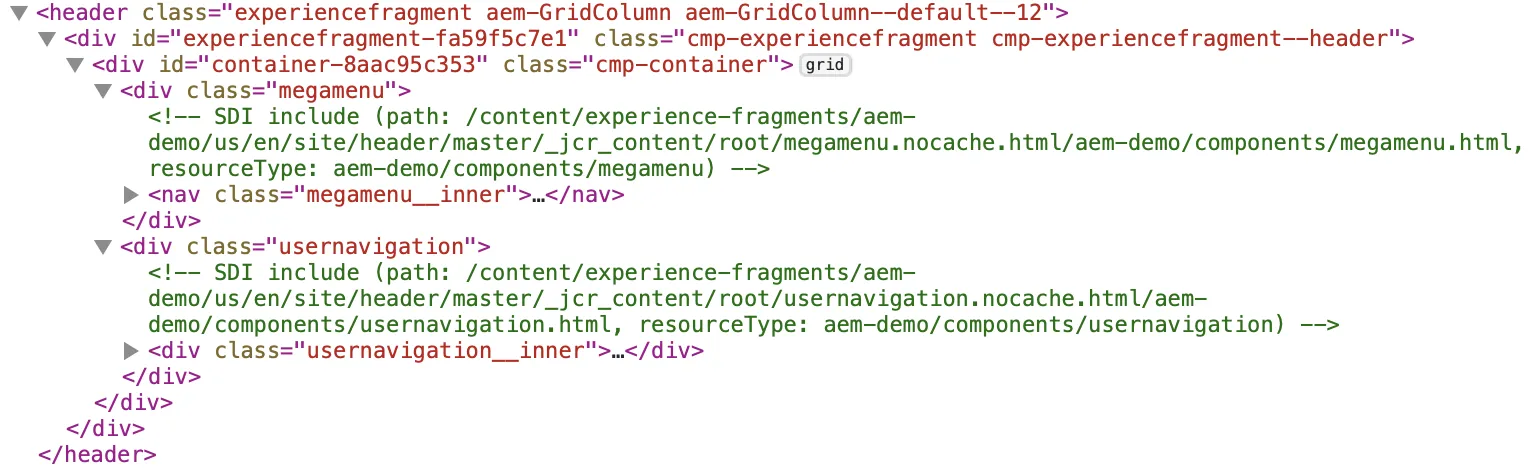
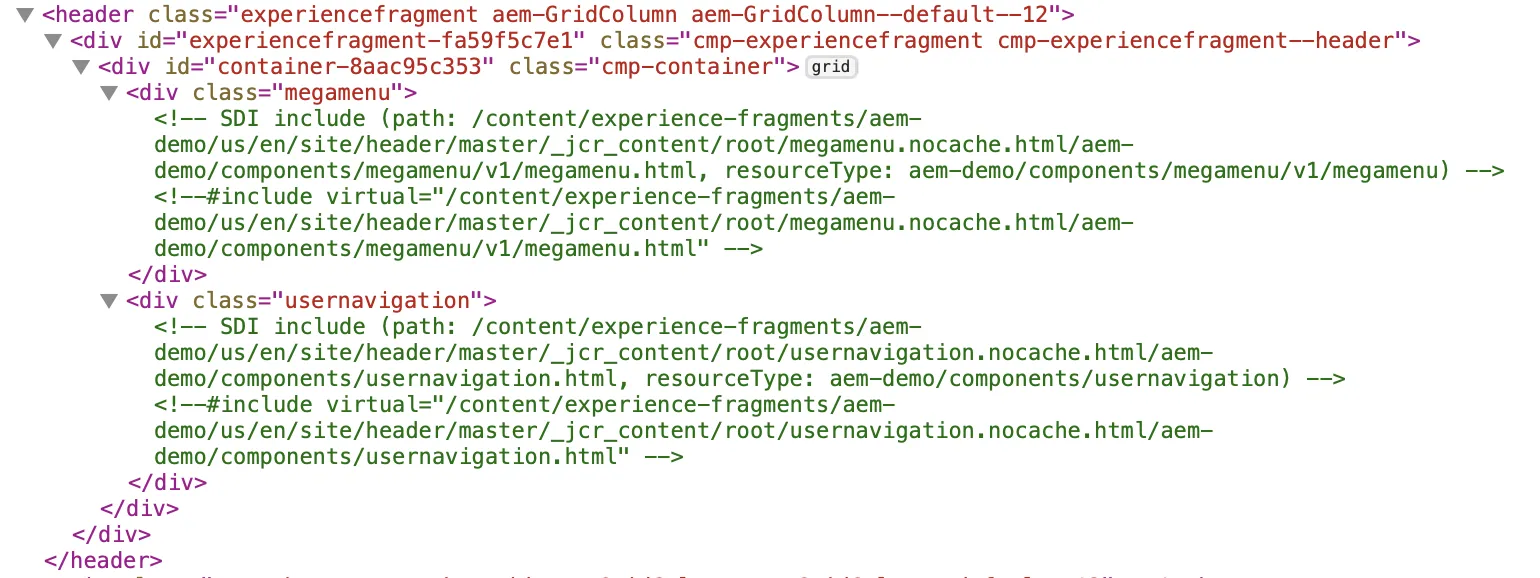
caching aem dynamic pages using sdi

Changed region(s): [[0.0, 0.0, 0.9987, 0.983]]

diff --git a/src/app/aem/dispatcher/cache-aem-pages-with-dynamic-content-using-sdi/page.tsx b/src/app/aem/dispatcher/cache-aem-pages-with-dynamic-content-using-sdi/page.tsx
@@ -57,6 +57,21 @@ const SDI_OSGI_CONFIGURATION =
   "include-filter.config.ttl": ""
 }`;
 
+const SSI_DISPATCHER_CONFIGURATION = 
+`<Directory "\${PUBLISH_DOCROOT}">
+  Options Indexes FollowSymLinks Includes
+  AddOutputFilter INCLUDES .html
+  AllowOverride None
+  Require all granted
+</Directory>`;
+
+const DISPATCHER_NO_CACHE =
+`/disable-nocache
+{
+  /glob "*.nocache.html*"
+  /type "deny"
+}`;
+
 const breadcrumbs : IBreadCrumb = {
   items: [{
     title: "AEM Dispatcher",
@@ -98,6 +113,22 @@ export default function CacheDynamicContent() {
           <Image src={SLING_DYNAMIC_INCLUDE_HTML_IMAGE} className="border py-1 my-1"
             alt="HTML View of Sling Dynamic Include Implementation">
           </Image>
+          <section className="pt-1">
+            If you closely review the HTML above, you&apos;ll notice a comment that provides details about the content path and component resource type. Additionally, 
+            there&apos;s an include tag with a virtual attribute, using the content path as its value. The next step is to ensure the dispatcher retrieves actual content 
+            from the publisher which requires configuring the Includes module in the vhost file and disabling caching for requests containing <code className="code-inline">*nocache.html*</code>.
+            This involves adding the <code className="code-inline">Includes</code> option to the <code className="code-inline">Options</code> directive and <code className="code-inline">AddOutputFilter 
+            INCLUDES .html</code> in your virtual configuration host. 
+          </section>
+          <Highlight code={SSI_DISPATCHER_CONFIGURATION} language="apache" path="conf.d / available_vhosts / aemdemo.com.vhost"/>
+          <section className="pt-2">
+            Additionally, disable the caching for <code className="code-inline">.nocache.html</code> files in the cache rules.
+          </section>
+          <Highlight code={DISPATCHER_NO_CACHE} language="apache" path="conf.dispatcher.d / cache / client_publish_cache.any"/>
+          <section className="pt-4">
+            With the above setup, usernavigation and megamenu component within AEM-Demo Experience Fragments will be dynamically loaded, while other sections of the page will 
+            be served from the cache. After successfully implementing the Sling Dynamic Include, you can expect a significant improvement in performance.
+          </section>
         </div>  
       </article>
     </div>
